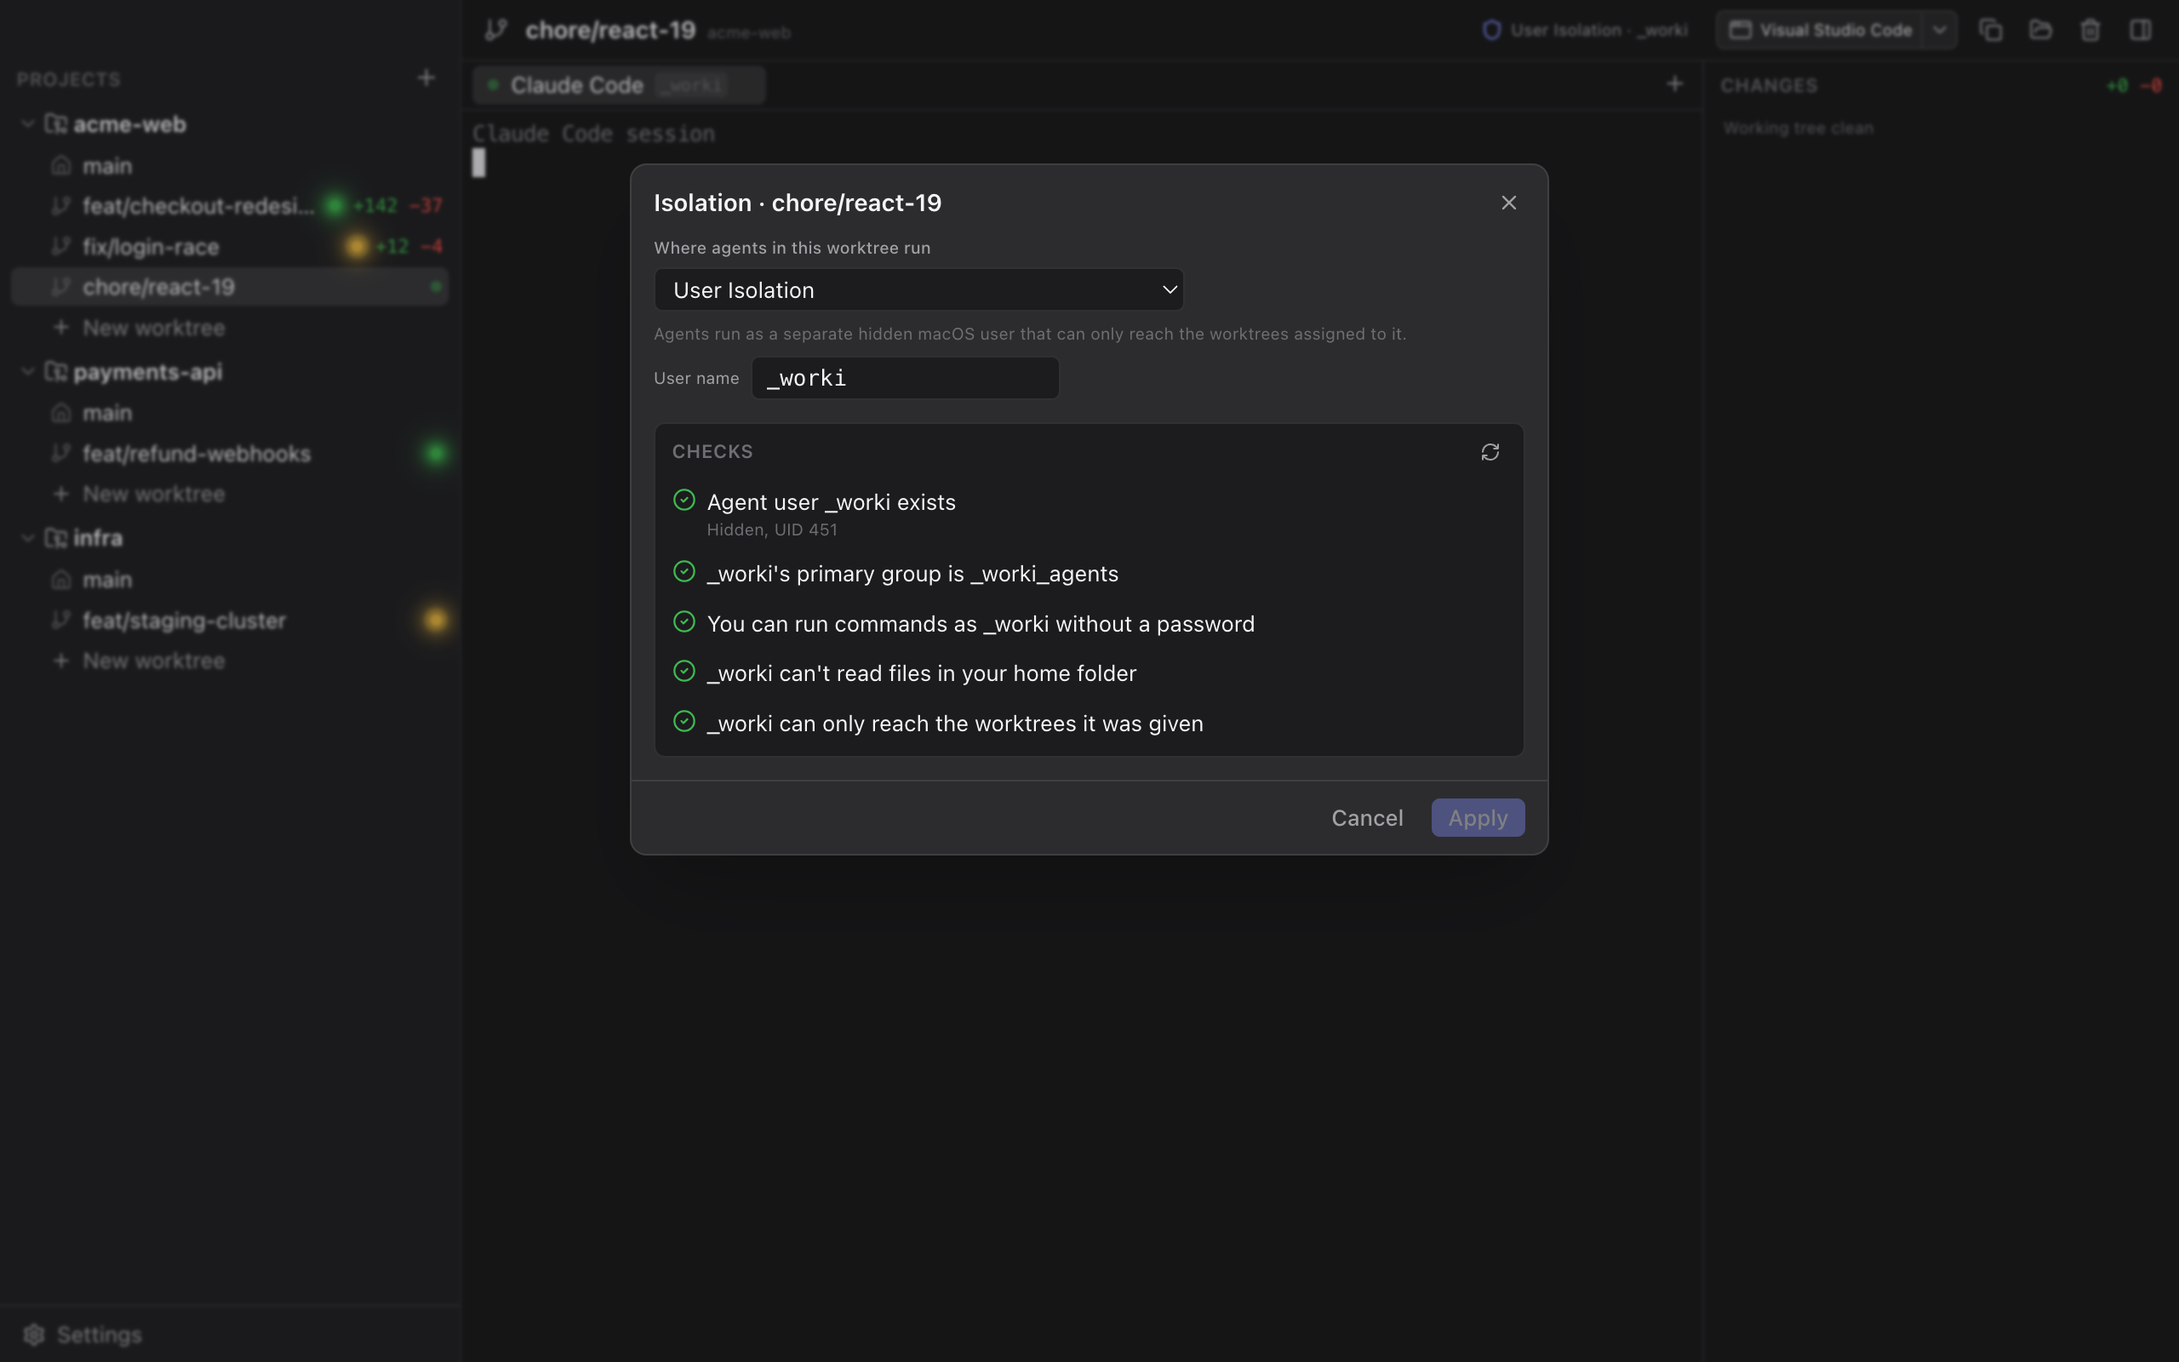
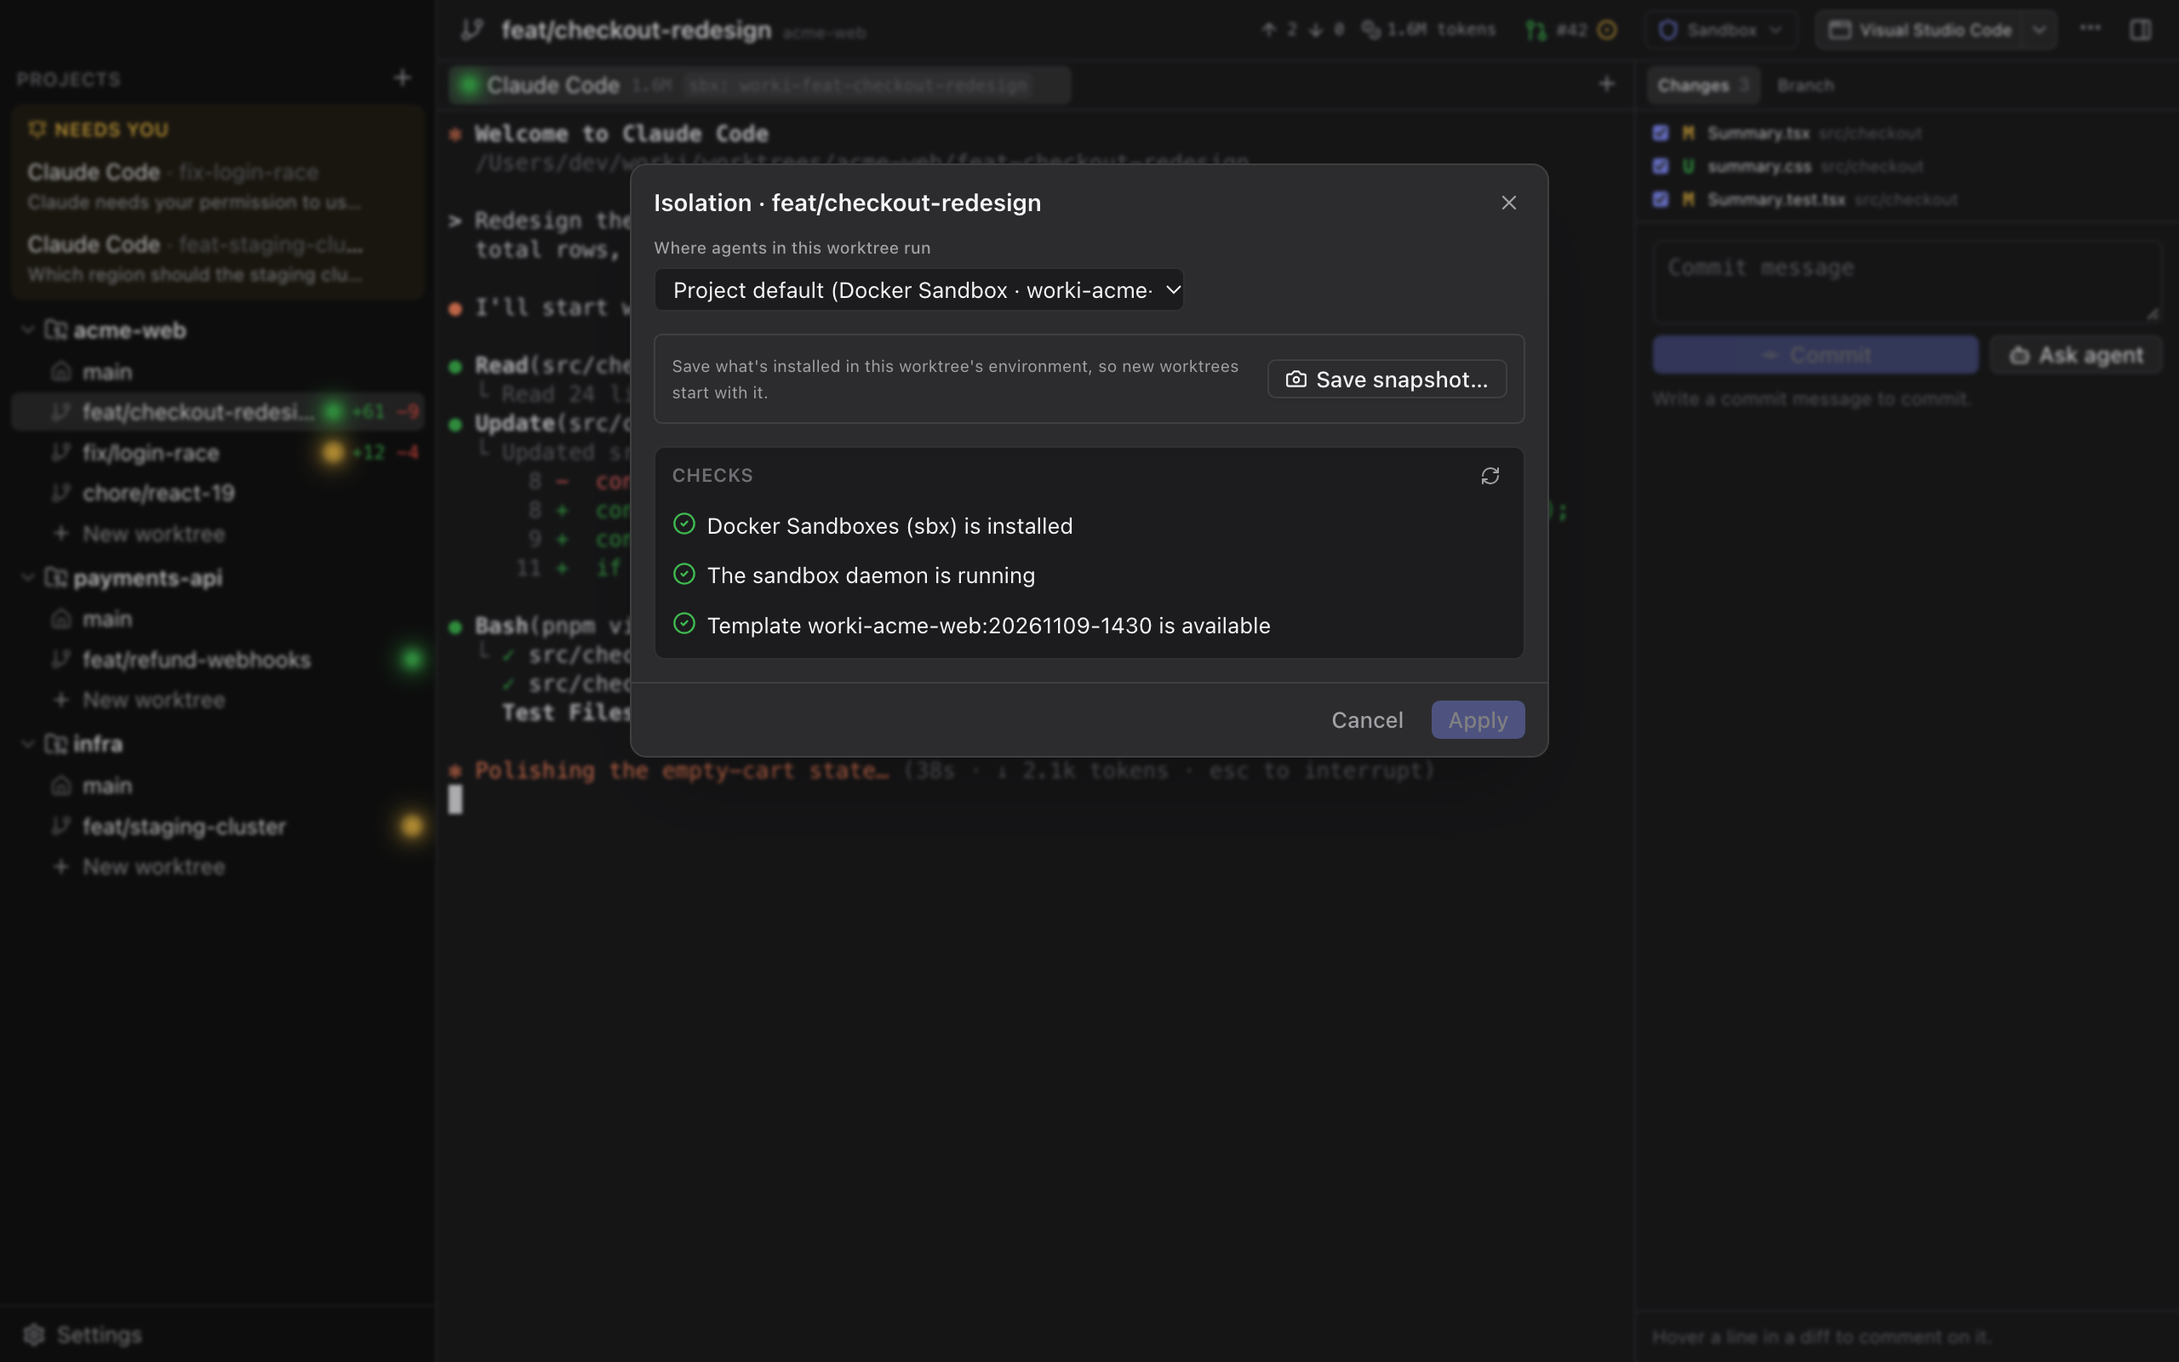
Update the README and screenshots for commits, PRs and snapshots
Screenshots are the real UI rendered against demo data (ui/demo.html mocks the Tauri side); scripts/screenshots.sh recreates them with headless Chrome.

diff --git a/ui/src/demo/main.tsx b/ui/src/demo/main.tsx
@@ -1,0 +1,268 @@
+import { mockIPC, mockWindows } from "@tauri-apps/api/mocks";
+
+const scene = new URLSearchParams(location.search).get("scene") ?? "main";
+const ROOT = "/Users/dev/worki/worktrees";
+const now = Math.floor(Date.now() / 1000);
+
+const projects = [
+  project("acme-web", "/Users/dev/src/acme-web"),
+  project("payments-api", "/Users/dev/src/payments-api"),
+  project("infra", "/Users/dev/src/infra"),
+];
+
+function project(name: string, repoPath: string) {
+  return {
+    id: name,
+    name,
+    repoPath,
+    worktreeRoot: `${ROOT}/${name}`,
+    defaultBase: "main",
+    isolation: { kind: "inherit" },
+    setupScript: null,
+    remote: null,
+  };
+}
+
+const wt = (p: string, branch: string | null, isMain = false) => ({
+  path: isMain ? projects.find((x) => x.id === p)!.repoPath : `${ROOT}/${p}/${branch!.replace(/\//g, "-")}`,
+  branch: branch ?? "main",
+  head: "abc1234",
+  isMain,
+  locked: false,
+  prunable: false,
+});
+
+const worktrees: Record<string, ReturnType<typeof wt>[]> = {
+  "acme-web": [wt("acme-web", null, true), wt("acme-web", "feat/checkout-redesign"), wt("acme-web", "fix/login-race"), wt("acme-web", "chore/react-19")],
+  "payments-api": [wt("payments-api", null, true), wt("payments-api", "feat/refund-webhooks")],
+  infra: [wt("infra", null, true), wt("infra", "feat/staging-cluster")],
+};
+
+const checkout = worktrees["acme-web"][1].path;
+const login = worktrees["acme-web"][2].path;
+const refunds = worktrees["payments-api"][1].path;
+const staging = worktrees.infra[1].path;
+
+const file = (path: string, code: string) => ({ path, code });
+const status: Record<string, unknown> = {
+  [checkout]: {
+    changedFiles: [file("src/checkout/Summary.tsx", " M"), file("src/checkout/summary.css", "??"), file("src/checkout/Summary.test.tsx", " M")],
+    insertions: 61,
+    deletions: 9,
+    ahead: 2,
+    behind: 0,
+    upstream: "origin/feat/checkout-redesign",
+  },
+  [login]: { changedFiles: [file("src/auth/session.ts", " M")], insertions: 12, deletions: 4, ahead: 0, behind: 0, upstream: null },
+};
+const clean = { changedFiles: [], insertions: 0, deletions: 0, ahead: 0, behind: 0, upstream: "origin/main" };
+
+const commits = [
+  { sha: "a1b2c3d4", subject: "Show a skeleton while the cart loads", author: "Claude", time: now - 25 * 60 },
+  { sha: "b2c3d4e5", subject: "Render the checkout summary as a card", author: "Claude", time: now - 70 * 60 },
+  { sha: "c3d4e5f6", subject: "Split shipping and discount into their own rows", author: "Claude", time: now - 3 * 3600 },
+];
+
+const isolation = { kind: "dockerSandbox", image: "claude", template: "worki-acme-web:20261109-1430" };
+
+const session = (id: string, path: string, activity: string, extra: object = {}) => ({
+  id,
+  worktreePath: path,
+  profileId: "claude",
+  title: "Claude Code",
+  runAs: "sbx: worki-" + path.split("/").pop(),
+  resumable: false,
+  state: { kind: "running" },
+  activity,
+  attention: null,
+  createdAt: now,
+  usage: [{ model: "claude-opus-5-5", input: 2400, output: 38_000, cacheWrite: 120_000, cacheWrite1h: 0, cacheRead: 1_400_000 }],
+  ...extra,
+});
+
+const sessions = [
+  session("s1", checkout, "working"),
+  session("s2", login, "waiting", { attention: "Claude needs your permission to use Bash" }),
+  session("s3", refunds, "working"),
+  session("s4", staging, "waiting", { attention: "Which region should the staging cluster use?" }),
+];
+
+const esc = "\x1b[";
+const c = (code: string, text: string) => `${esc}${code}m${text}${esc}0m`;
+const terminal = [
+  `${c("38;5;209", "✻")} ${c("1", "Welcome to Claude Code")}`,
+  `  ${c("90", checkout)}`,
+  "",
+  `${c("1", ">")} Redesign the checkout summary as a card with subtotal, shipping and`,
+  `  total rows, show a skeleton while loading, and keep the tests green.`,
+  "",
+  `${c("38;5;209", "●")} I'll start with the current summary and its tests.`,
+  "",
+  `${c("32", "●")} ${c("1", "Read")}(src/checkout/Summary.tsx)`,
+  `  ${c("90", "└ Read 24 lines")}`,
+  `${c("32", "●")} ${c("1", "Update")}(src/checkout/Summary.tsx)`,
+  `  ${c("90", "└ Updated src/checkout/Summary.tsx with 21 additions and 7 removals")}`,
+  `     ${c("90", " 8")} ${c("31", "-  const total = cart.items.reduce((sum, i) => sum + i.price * i.qty, 0);")}`,
+  `     ${c("90", " 8")} ${c("32", "+  const subtotal = cart.items.reduce((sum, i) => sum + i.price * i.qty, 0);")}`,
+  `     ${c("90", " 9")} ${c("32", "+  const total = subtotal + cart.shipping - cart.discount;")}`,
+  `     ${c("90", "11")} ${c("32", "+  if (loading) return <LineItemSkeleton rows={3} />;")}`,
+  "",
+  `${c("32", "●")} ${c("1", "Bash")}(pnpm vitest run src/checkout)`,
+  `  ${c("90", "└")} ${c("32", "✓")} src/checkout/Summary.test.tsx ${c("90", "(9 tests) 412ms")}`,
+  `    ${c("32", "✓")} src/checkout/LineItem.test.tsx ${c("90", "(5 tests) 188ms")}`,
+  `    ${c("1", "Test Files")}  ${c("32", "2 passed")} ${c("90", "(2)")}`,
+  "",
+  `${c("38;5;209", "✻ Polishing the empty-cart state…")} ${c("90", "(38s · ↓ 2.1k tokens · esc to interrupt)")}`,
+  "",
+].join("\r\n");
+
+const diff = `diff --git a/src/checkout/Summary.tsx b/src/checkout/Summary.tsx
+--- a/src/checkout/Summary.tsx
++++ b/src/checkout/Summary.tsx
+@@ -1,20 +1,26 @@
+ import { useCart } from "../cart";
+ import { Money } from "../ui/Money";
++import { LineItemSkeleton } from "./LineItem";
++import "./summary.css";
+ 
+ export function Summary() {
+-  const { cart } = useCart();
+-  const total = cart.items.reduce((sum, i) => sum + i.price * i.qty, 0);
++  const { cart, loading } = useCart();
++  const subtotal = cart.items.reduce((sum, i) => sum + i.price * i.qty, 0);
++  const total = subtotal + cart.shipping - cart.discount;
++
++  if (loading) return <LineItemSkeleton rows={3} />;
+ 
+   return (
+-    <div className="summary">
+-      <Money value={total} />
+-    </div>
++    <section className="summary-card">
++      <Row label="Subtotal" value={subtotal} />
++      <Row label="Shipping" value={cart.shipping} />
++      <Row label="Total" value={total} strong />
++    </section>
+   );
+ }
+`;
+
+const apps = [
+  { id: "vscode", name: "Visual Studio Code", path: "/Applications/Visual Studio Code.app" },
+  { id: "idea", name: "IntelliJ IDEA", path: "/Applications/IntelliJ IDEA.app" },
+];
+
+const check = (id: string, label: string) => ({ id, label, ok: true, detail: null, fix: null });
+
+function handle(cmd: string, args: Record<string, any>): unknown {
+  switch (cmd) {
+    case "list_projects":
+      return projects;
+    case "list_worktrees":
+      return worktrees[args.projectId] ?? [];
+    case "worktree_status":
+      return status[args.path] ?? clean;
+    case "list_sessions":
+      return sessions;
+    case "agent_settings":
+      return {
+        profiles: [
+          { id: "claude", name: "Claude Code", command: "claude", install: null },
+          { id: "codex", name: "Codex", command: "codex", install: null },
+        ],
+        defaultProfile: "claude",
+        secrets: {},
+      };
+    case "isolation_settings":
+      return { default: isolation, stopOnQuit: false };
+    case "worktree_isolation":
+      return { choice: { kind: "inherit" }, effective: isolation };
+    case "opener_settings":
+      return { apps, defaultApp: "vscode" };
+    case "app_icon":
+      return null;
+    case "compare_base":
+      return `origin/${args.base}`;
+    case "branch_changes":
+      return {
+        base: args.base,
+        files: [file("src/checkout/Summary.tsx", "M "), file("src/checkout/LineItem.tsx", "M "), file("src/checkout/summary.css", "A "), file("src/checkout/Summary.test.tsx", "M ")],
+        insertions: 142,
+        deletions: 37,
+        commits: 3,
+        behind: 2,
+      };
+    case "branch_log":
+      return args.worktreePath === checkout ? commits : [];
+    case "pull_request":
+      return args.worktreePath === checkout
+        ? { number: 42, title: "Redesign the checkout summary", url: "https://github.com/acme/web/pull/42", state: "OPEN", isDraft: false, checksPassed: 3, checksFailed: 0, checksPending: 1 }
+        : null;
+    case "file_diff":
+      return diff;
+    case "environment_templates":
+      return ["worki-acme-web:20261109-1430"];
+    case "isolation_doctor":
+      return [
+        check("binary", "Docker Sandboxes (sbx) is installed"),
+        check("daemon", "The sandbox daemon is running"),
+        check("image", "Template worki-acme-web:20261109-1430 is available"),
+      ];
+    case "agent_statuses":
+      return [
+        { profileId: "claude", name: "Claude Code", executable: "claude", envPath: "/usr/local/bin/claude", hostPath: "/opt/homebrew/bin/claude", canInstall: true, canShare: false, hasConfig: true, auth: { secret: "CLAUDE_CODE_OAUTH_TOKEN", set: true } },
+        { profileId: "codex", name: "Codex", executable: "codex", envPath: null, hostPath: "/opt/homebrew/bin/codex", canInstall: true, canShare: false, hasConfig: false, auth: null },
+      ];
+    case "secret_status":
+      return (args.names as string[]).map((n) => [n, true]);
+    case "ssh_hosts":
+      return [];
+    case "setup_scripts":
+      return { project: null, repoFile: "pnpm install" };
+    case "attach_session": {
+      const channel = args.onData;
+      if (args.id === "s1") setTimeout(() => channel.onmessage?.(Array.from(new TextEncoder().encode(terminal))), 50);
+      return 1;
+    }
+    case "restore_agent_sessions":
+      return { started: 0, failed: [] };
+    case "restore_remote_sessions":
+      return 0;
+    default:
+      return null;
+  }
+}
+
+mockWindows("main");
+mockIPC((cmd, args) => handle(cmd, (args ?? {}) as Record<string, any>), { shouldMockEvents: true });
+
+const ui = {
+  selectedProjectId: "acme-web",
+  selectedWorktreePath: checkout,
+  collapsed: {},
+  showChanges: true,
+  changesScope: scene === "branch" ? "branch" : "uncommitted",
+  panelWidths: { sidebar: 256, diff: 520, changes: 320 },
+  theme: "dark",
+  terminalFontSize: 13,
+  reopenSessions: true,
+  gitTaskProfile: null,
+  showCommits: true,
+  showPullRequests: true,
+};
+localStorage.setItem("worki-ui", JSON.stringify({ state: ui, version: 0 }));
+localStorage.removeItem("worki-review");
+
+await import("../main");
+
+const { useUi } = await import("../lib/store");
+if (scene === "settings") useUi.getState().openDialog({ kind: "settings", tab: "isolation" });
+if (scene === "git") useUi.getState().openDialog({ kind: "settings", tab: "git" });
+if (scene === "isolation") {
+  const open = () => {
+    const badge = [...document.querySelectorAll("button")].find((b) => b.title.includes("click to change"));
+    if (badge) badge.click();
+    else setTimeout(open, 100);
+  };
+  open();
+}

diff --git a/ui/demo.html b/ui/demo.html
@@ -1,0 +1,11 @@
+<!doctype html>
+<html lang="en">
+  <head>
+    <meta charset="UTF-8" />
+    <title>worki</title>
+  </head>
+  <body>
+    <div id="root"></div>
+    <script type="module" src="/src/demo/main.tsx"></script>
+  </body>
+</html>

diff --git a/README.md b/README.md
@@ -15,7 +15,7 @@
 </p>
 
 <p align="center">
-  <img src="docs/screenshots/main.png" alt="worki with Claude Code running in a Docker Sandbox" width="900">
+  <img src="docs/screenshots/main.png" alt="worki with Claude Code running in a Docker Sandbox, two agents waiting under Needs you" width="900">
 </p>
 
 Coding agents are at their best when you let them run on their own: accept edits, run the tests,
@@ -40,12 +40,13 @@ checks it and cleans it up again.
 | **None** | Runs as you, for trusted work | — |
 
 <p align="center">
-  <img src="docs/screenshots/isolation.png" alt="Choosing a worktree's isolation, with passing checks" width="900">
+  <img src="docs/screenshots/isolation.png" alt="A worktree's isolation, with passing checks and Save snapshot" width="900">
 </p>
 
 - **Only the worktree, nothing else.** The worktree is mounted (or, for User Isolation, granted
-  by ACLs) at the same path as on your Mac, so paths in agent output match yours. Git hooks and
-  config are read-only, so an agent can't plant a hook that later runs as you.
+  by ACLs) at the same path as on your Mac, so paths in agent output match yours. Of the
+  repository's `.git`, only what committing needs is writable; hooks and config stay read-only,
+  so an agent can't plant anything that later runs as you.
 - **A doctor for every backend.** Checks phrased the way you'd want to read them ("_worki can't
   read files in your home folder") with one-click fixes: create the agent user, start the
   daemon, build the image.
@@ -55,24 +56,46 @@ checks it and cleans it up again.
   stays untouched. Setup is remembered and repeated for every new environment.
 - **Secrets stay in your Keychain.** Tokens are stored per isolation and passed to sessions as
   environment variables.
-- **No leftovers.** Environments start with the first session, stop when worki quits and are
-  removed together with their worktree or project.
+- **Snapshots.** Install what a project needs (a JDK, system packages) once, save the worktree's
+  sandbox or container as a snapshot, and new worktrees start from it with everything installed.
+- **Agents stay put.** Environments keep running when worki quits (or stop, if you prefer), and
+  Claude Code sessions pick up their conversation when worki starts again.
+- **No leftovers.** Environments are removed together with their worktree or project.
 
 <p align="center">
   <img src="docs/screenshots/settings.png" alt="Isolation settings with checks and agents installed in the sandbox" width="900">
 </p>
 
+## From task to pull request
+
+<p align="center">
+  <img src="docs/screenshots/branch.png" alt="The Branch tab: status against origin/main, commits and the open pull request" width="900">
+</p>
+
+- **Commit** the files you pick from the **Changes** tab, or ask the agent to do it.
+- **Branch** tab: how the branch stands against `origin/main`, with **Rebase** (it fetches
+  first; on conflicts nothing changes and the agent can resolve them), the branch's commits and
+  every file it touched.
+- **Pull requests** through the GitHub CLI: create one, follow its checks, push new commits, and
+  pull review comments into worki to send them to the agent.
+- **Review in place.** Comment on any diff line, expand hidden context, and send the comments to
+  the agent as one review.
+
+Commits and pull requests can be turned off under Settings › Git. Pull requests need
+[`gh`](https://cli.github.com) installed and signed in (`gh auth login`).
+
 ## Everything around it
 
 - **Parallel worktrees.** Branch off any existing branch in one step, with an optional setup
   script (`pnpm install`, copying `.env` files) that runs in the same isolation as the agent.
-- **See who needs you.** A status dot per agent shows whether it's working, waiting for you or
-  idle. You get a notification and a Dock badge when one is waiting.
+- **See who needs you.** Agents waiting for an answer are listed under **Needs you**, across all
+  projects, the moment they ask, with a notification and a Dock badge.
 - **Real terminals.** Agent and shell sessions in GPU-rendered terminals that keep running when
-  you switch worktrees.
-- **Review in place.** Changed files and diffs for every worktree, next to the agent.
-- **Remote projects.** Work on repositories on an SSH host; sessions run in tmux there and
-  survive a dropped connection.
+  you switch worktrees. Each tab shows its token usage, and YOLO mode is one checkbox per agent.
+- **Remote projects.** Work on repositories on an SSH host, with saved hosts you set up once;
+  sessions run in tmux there and survive a dropped connection.
+- **Keyboard first.** ⌘K jumps to any worktree or action, ⌘T starts an agent, ⌘J shows the
+  changes.
 - **Open in anything.** Jump to the worktree in your editor or terminal from the toolbar.
 
 ## Getting started
@@ -110,6 +133,12 @@ A setup script set in the project settings overrides the file.
 ```bash
 cargo test --workspace
 pnpm typecheck
+```
+
+The README screenshots are the real UI rendered against demo data (`ui/demo.html`):
+
+```bash
+scripts/screenshots.sh
 ```
 
 End-to-end tests against real container engines (need `sbx`, Docker Desktop or a Podman machine):
